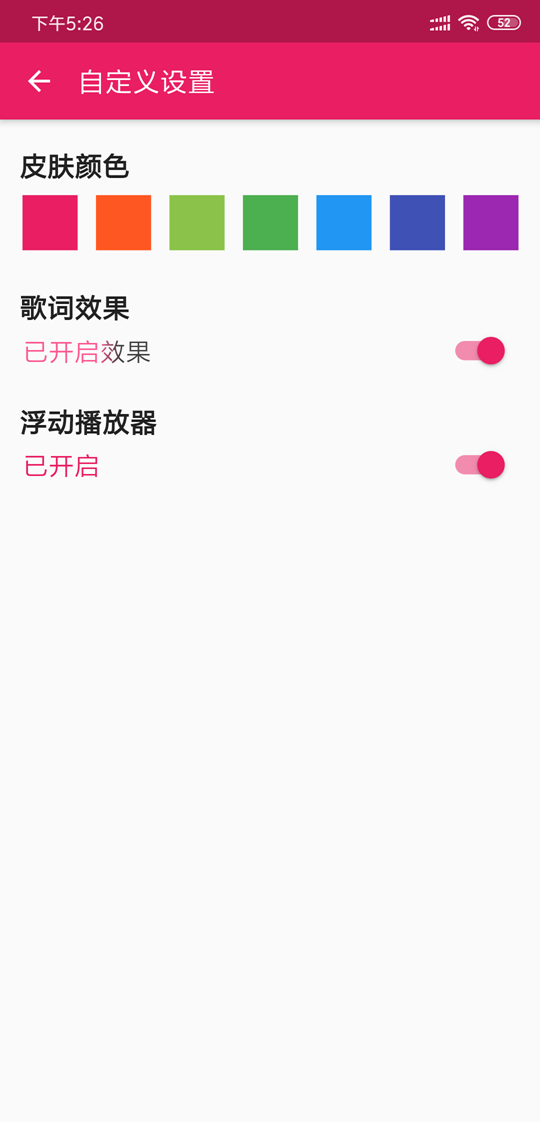
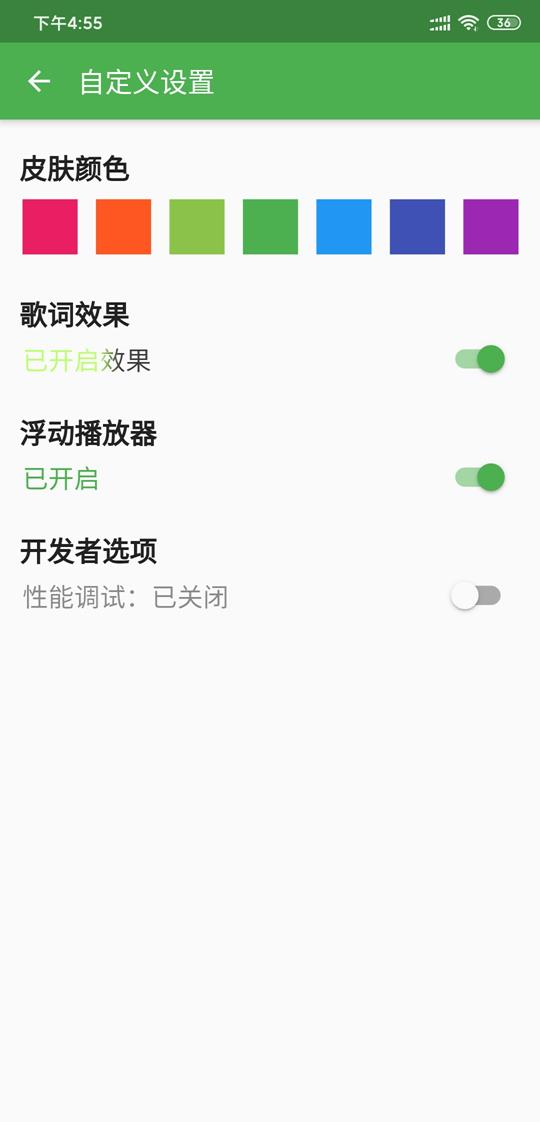
添加开发者选择设置项

diff --git a/lib/pages/setting_page.dart b/lib/pages/setting_page.dart
@@ -50,6 +50,8 @@ class _SettingPageState extends State<SettingPage> {
           _buildLyricMask(),
           _buildTitle('浮动播放器'),
           _buildFloatPlayer(),
+          _buildTitle('开发者选项'),
+          _buildDebugs(),
         ],
       ),
     );
@@ -145,6 +147,33 @@ class _SettingPageState extends State<SettingPage> {
               SharedPreferenceUtil.getInstance()
                   .setBool('showFloatPlayer', showFloatPlayer);
               setState(() {});
+            },
+          )
+        ],
+      ),
+    );
+  }
+
+  
+  Widget _buildDebugs() {
+    bool showPerformanceOverlay = colorStyleProvider.showPerformanceOverlay;
+    return Container(
+      padding: EdgeInsets.symmetric(horizontal: 16.0, vertical: 0.0),
+      height: 36.0,
+      child: Row(
+        mainAxisAlignment: MainAxisAlignment.spaceBetween,
+        children: <Widget>[
+          Text(
+            "性能调试：" + (showPerformanceOverlay ? '已开启' : '已关闭'),
+            style: TextStyle(
+                color: showPerformanceOverlay ? mainColor : Colors.black45,
+                fontSize: 15.0),
+          ),
+          Switch(
+            value: showPerformanceOverlay,
+            activeColor: mainColor,
+            onChanged: (selected) {
+              colorStyleProvider.setShowPerformanceOverlay(selected);
             },
           )
         ],

diff --git a/lib/main.dart b/lib/main.dart
@@ -55,18 +55,18 @@ class MyApp extends StatefulWidget {
 class _MyAppState extends State<MyApp> {
   @override
   Widget build(BuildContext context) {
+    ColorStyleProvider colorStyleProvider = Provider.of<ColorStyleProvider>(context);
     return MaterialApp(
         title: 'Flutter Music',
         debugShowCheckedModeBanner: false,
-        //showPerformanceOverlay: true, // 是否打开性能测试层
+        showPerformanceOverlay: colorStyleProvider.showPerformanceOverlay, // 是否打开性能测试层
         theme: ThemeData(
             brightness: Brightness.light,
             appBarTheme: AppBarTheme(
                 brightness: Brightness.dark,
                 iconTheme: IconThemeData(color: Colors.white),
                 textTheme: TextTheme(title: TextStyle(color: Colors.white))),
-            primarySwatch: Provider.of<ColorStyleProvider>(context)
-                .getCurrentColor(color: 'mainColor')),
+            primarySwatch: colorStyleProvider.getCurrentColor(color: 'mainColor')),
         home: HomePage());
   }
 }

diff --git a/lib/model/color_provider.dart b/lib/model/color_provider.dart
@@ -11,6 +11,7 @@ enum ColorStyle { pink, orange, lime, green, blue, indigo,  purple }
 class ColorStyleProvider with ChangeNotifier {
   static ColorStyle currentStyle = ColorStyle.green;
   static const pref_color = 'colorStyle';
+  bool showPerformanceOverlay = false; // 是否在界面上显示性能调试层
 
   static final Map<ColorStyle, Map> styles = {
     ColorStyle.pink: {
@@ -84,6 +85,11 @@ class ColorStyleProvider with ChangeNotifier {
       currentStyle = ColorStyle.values[styleIndex];
     }
     return currentStyle;
+  }
+
+  setShowPerformanceOverlay(bool visible) {
+    this.showPerformanceOverlay = visible;
+    notifyListeners();
   }
 
 }

diff --git a/README.md b/README.md
@@ -1,10 +1,17 @@
 # flutter_music_player
 
+## 简介
 一款使用Flutter实现的音乐播放器，全面学习并运用Flutter各知识点。
-- 试用apk下载地址：[flutter_music_release_1.0.apk](https://xwh817.github.io/apks/flutter_music_1.0.apk
-)
+
+- 试用apk下载地址：[flutter_music_release_1.0.apk](https://xwh817.github.io/apks/flutter_music_release.apk)
+- 扫描二维码下载：<img src="./screenshot/qr_flutter_music.png">
 - 关于播放源：采用了开源项目[NeteaseCloudMusicApi](https://github.com/Binaryify/NeteaseCloudMusicApi)，如想稳定运行请自行下载并搭建自己的服务。
 - 说明：本App仅限于学习，不得用于商业用途。
+
+## 其他实现方式
+> [React Native版](https://github.com/xwh817/RNMusicPlayer)
+
+> [Java版](https://github.com/xwh817/MyMusicPlayer)
 
 ## 参考资料
 - [Flutter中文网：Flutter实战](https://book.flutterchina.club/)
@@ -17,14 +24,14 @@
 
 
 ## 功能结构图
-<p><img src="./screenShot/FlutterMusic.png" width="900"></p>
+<p><img src="./screenshot/FlutterMusic.png"></p>
 
 ## App界面
 
 ### 播放页面
 - 播放、暂停、上一首、下一首。
 - 歌词同步渐进显示、自动滚动效果。
-<p><img src="./screenShot/player.jpg" width="300"></p>
+<p><img src="./screenshot/player.jpg" width="300"></p>
 
 
 ### 首页、歌单、MV视频
@@ -34,26 +41,26 @@
 
 | 首页 |  歌单    | MV视频 |
 | :------: | :----: | :----: |
-| ![](./screenShot/01_home_page.jpg)|  ![](./screenShot/02_play_list.jpg)    | ![](./screenShot/03_mv.jpg) |
+| ![](./screenshot/01_home_page.jpg)|  ![](./screenshot/02_play_list.jpg)    | ![](./screenshot/03_mv.jpg) |
 
 ### 视频全屏播放
 - 播放、暂停、可拖动进度条
 - 可切换全屏/非全屏
-<p><img src="./screenShot/fullscreen.jpg" width="900"></p>
+<p><img src="./screenshot/fullscreen.jpg" width="900"></p>
 
 
 ### 歌单详情、歌手列表
 | 歌单详情 |  歌手列表 |
 | :------: | :----: |
-| ![](./screenShot/04_playlist_detail.jpg)|  ![](./screenShot/05_artists.jpg)    |
+| ![](./screenshot/04_playlist_detail.jpg)|  ![](./screenshot/05_artists.jpg)    |
 
 ### 不同的主题色
-- 集齐“红橙黄绿青蓝紫”七色，总有一色属于你。
-- 在设置页设置，效果如下图：
+- 使用Provider来管理全局状态，做到实时更新所有界面。
+- 集齐“红橙黄绿青蓝紫”七色，总有一色属于你：
 
 | 绿色 |  红色    | 紫色 |
 | :------: | :----: | :----: |
-| ![](./screenShot/06_player.jpg)|  ![](./screenShot/07_player.jpg)    | ![](./screenShot/08_player.jpg) |
+| ![](./screenshot/06_player.jpg)|  ![](./screenshot/07_player.jpg)    | ![](./screenshot/08_player.jpg) |
 
 
 ### 其他页面
@@ -62,7 +69,7 @@
 
 | 设置页 |  搜索页 |
 | :------: | :----: |
-| ![](./screenShot/09_setting.jpg)|  ![](./screenShot/10_search.jpg)    |
+| ![](./screenshot/09_setting.jpg)|  ![](./screenshot/10_search.jpg)    |
 
 
 
@@ -102,6 +109,8 @@
   - Future使用，熟练ascyn、await
   - AnimationController 动画控件，类似Android的值动画
 - 自定义控件
+  - 初接触Flutter会感觉控件嵌套层次会很深（地狱嵌套），其实多进行功能抽取就不会了。
+  - 例如播放界面，页面结构复杂，但是将功能块抽出为单独控件，页面就很清晰了。
   - 具有点击动画的控件
   - 圆角搜索框
   - 使用CustomPainter绘制语音动画
@@ -133,3 +142,8 @@
     - dart端：定义插件接口，约定要访问的方法、参数。
     - java端：新建对应项目，导入so文件；实现接口对应功能；实现方法调用回调；
     - ios端：和java端类似。
+- 打包发布
+  - flutter build apk
+  - 修改gradle配置，解决so包冲突问题
+  - 开启调试，查看页面绘制效率。
+  - 发现debug版的App会运行卡顿，打包成release版本时就没问题了。
